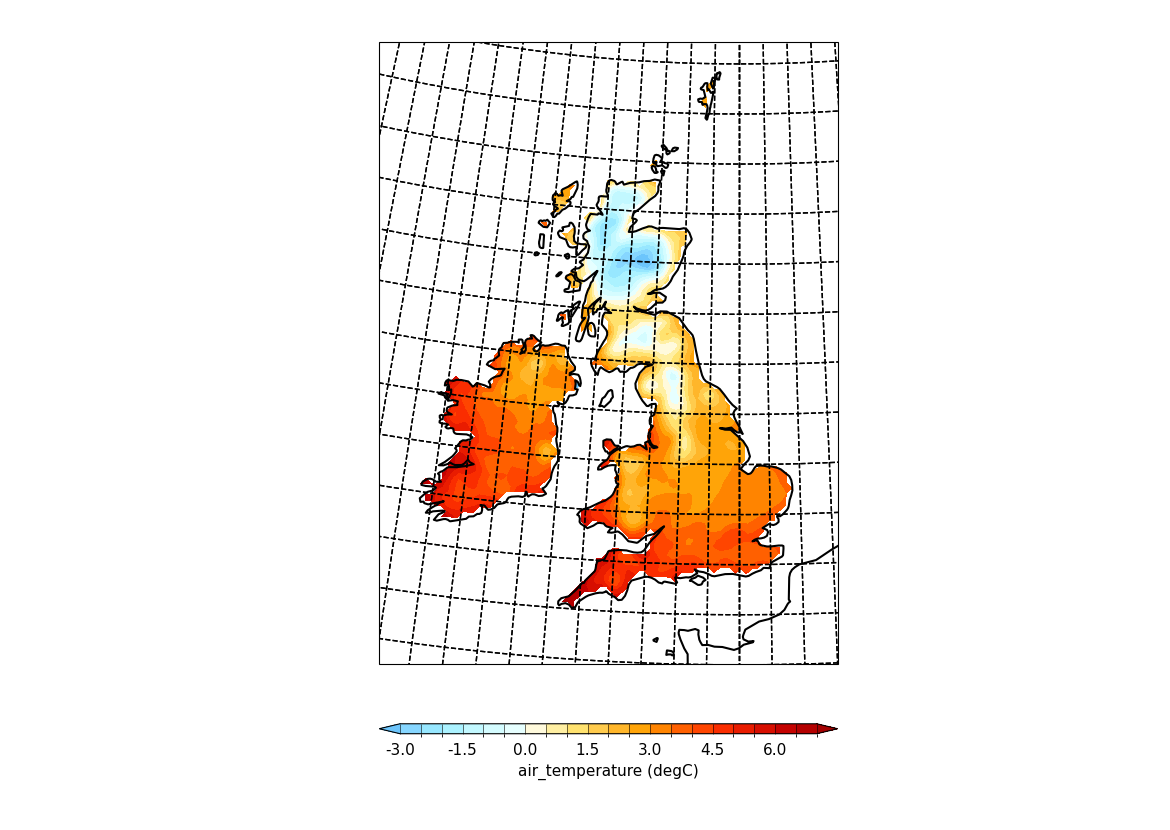
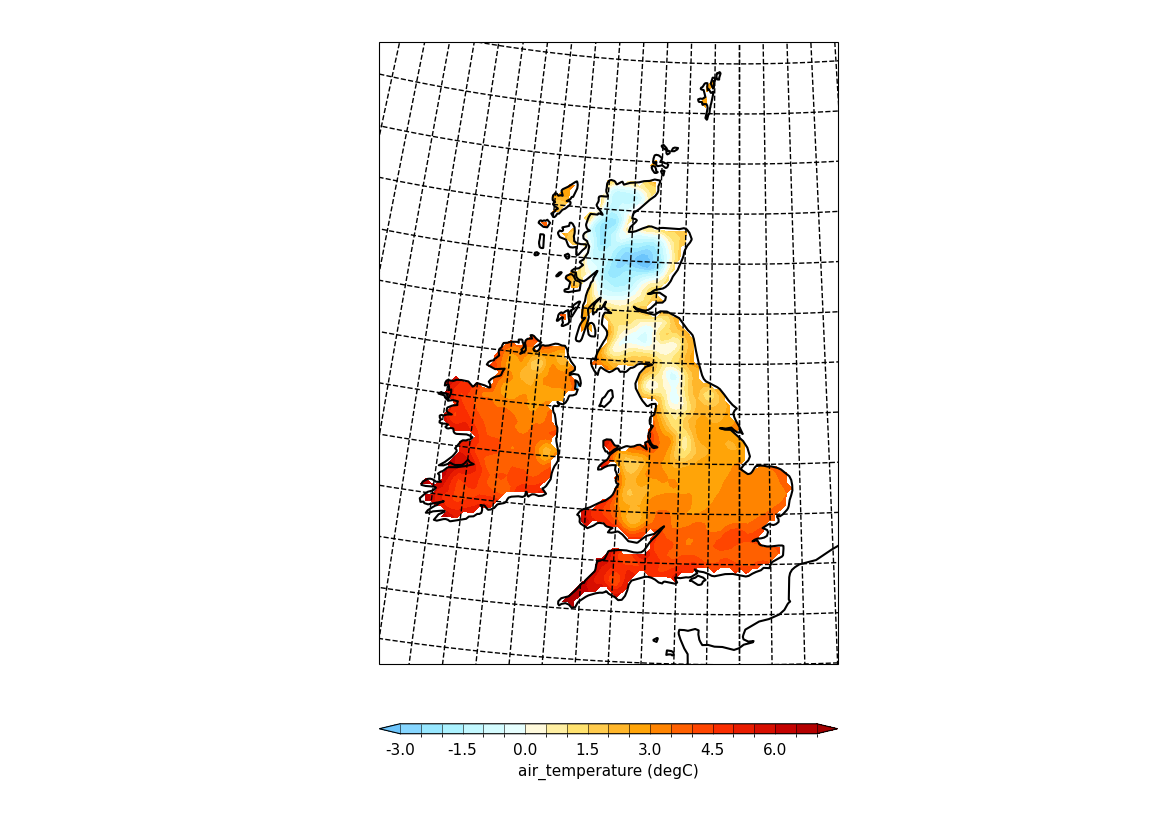
All but one skipped test pass. Note that we don't yet have the full test suite, only the contour related ones

diff --git a/cfplot/contour.py b/cfplot/contour.py
@@ -384,6 +384,9 @@ class ColourScale:
         if custom_labels is not None:
             return custom_labels
 
+        if label_skip is None:
+            label_skip = 1
+
         # Legacy default: estimate skip for horizontal colour bars from the
         # total character count, and include fewer labels for readability.
         if label_skip is None:
@@ -415,7 +418,7 @@ class ColourScale:
                         labels = list(np.append([levels[i]], labels))
                         i -= label_skip
 
-                return [str(level) for level in labels]
+                return self._expand_skipped_labels(labels, label_skip)
 
         labels = [levels[0]]
         i = int(label_skip)
@@ -423,7 +426,18 @@ class ColourScale:
             labels = list(np.append(labels, levels[i]))
             i += label_skip
 
-        return [str(level) for level in labels]
+        return self._expand_skipped_labels(labels, label_skip)
+
+    @staticmethod
+    def _expand_skipped_labels(labels: list[Any], label_skip: int) -> list[str]:
+        """Interleave skipped colour-bar labels with blank placeholders."""
+        clabels: list[str] = []
+        for label in labels:
+            clabels.append(str(label))
+            if label_skip > 1:
+                clabels.extend([""] * (label_skip - 1))
+
+        return clabels
 
 
 class ContourRenderer: